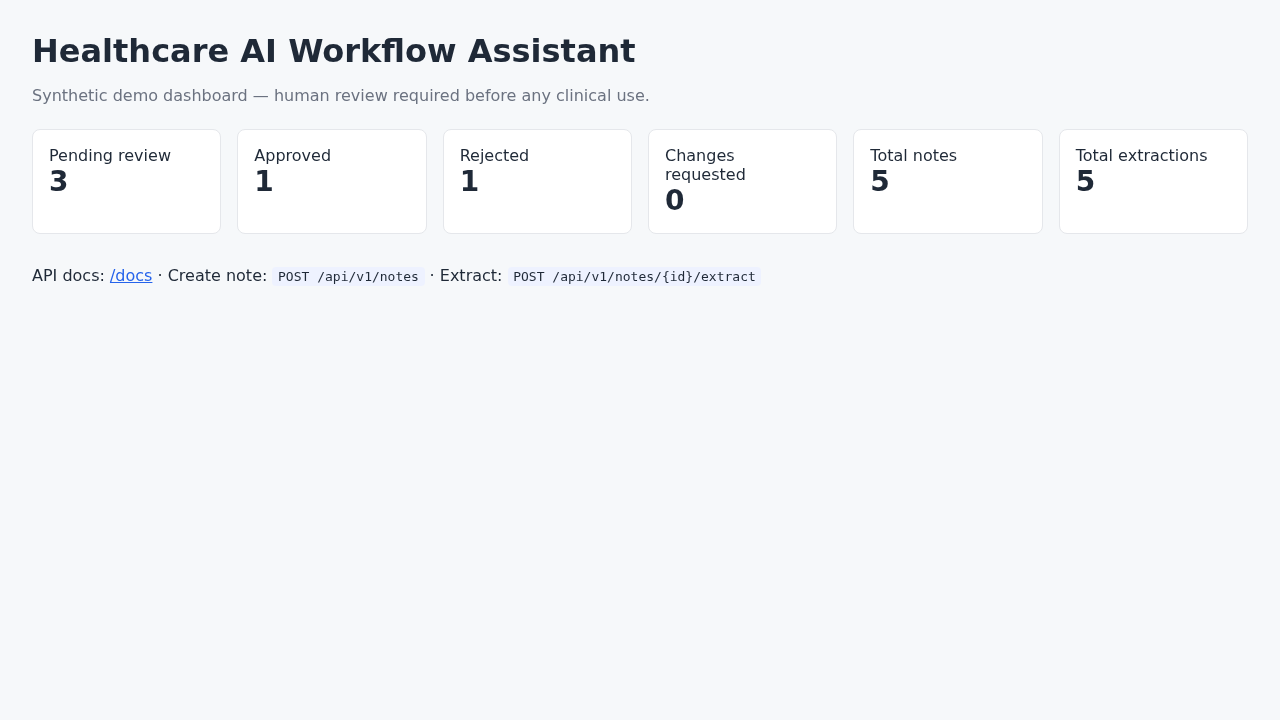
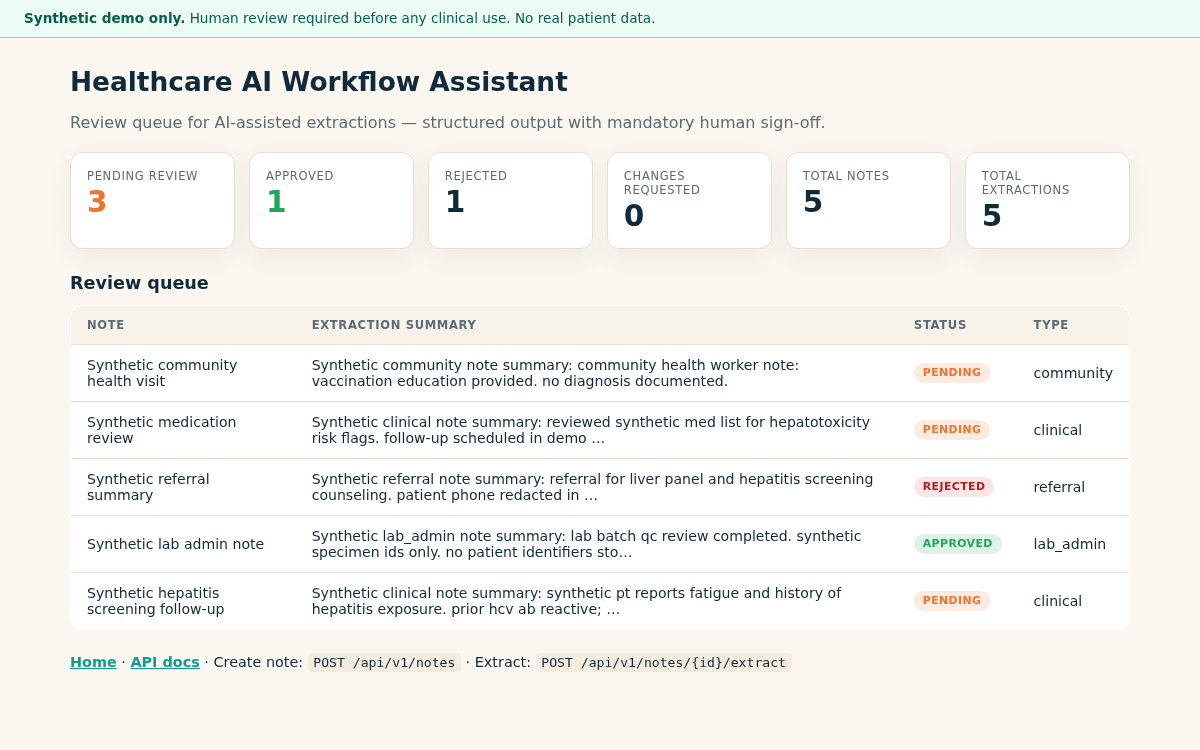
Add landing page, dashboard review queue, and demo polish for Render.
Warm landing UI, startup seed, reviews API, real dashboard screenshot, and live demo URLs in README.

diff --git a/backend/app/static/dashboard.html b/backend/app/static/dashboard.html
@@ -5,85 +5,101 @@
   <meta name="viewport" content="width=device-width, initial-scale=1.0" />
   <title>Healthcare AI Workflow Assistant — Demo Dashboard</title>
   <style>
-    body { font-family: system-ui, sans-serif; margin: 2rem; background: #f6f8fa; color: #1f2937; }
-    h1 { margin-bottom: 0.25rem; }
-    .muted { color: #6b7280; margin-bottom: 1.5rem; }
-    .cards { display: grid; grid-template-columns: repeat(auto-fit, minmax(140px, 1fr)); gap: 1rem; margin-bottom: 2rem; }
-    .card { background: #fff; border: 1px solid #e5e7eb; border-radius: 8px; padding: 1rem; }
-    .card strong { display: block; font-size: 1.5rem; }
-    table { width: 100%; border-collapse: collapse; background: #fff; border: 1px solid #e5e7eb; border-radius: 8px; overflow: hidden; }
-    th, td { text-align: left; padding: 0.75rem 1rem; border-bottom: 1px solid #e5e7eb; font-size: 0.9rem; }
-    th { background: #f9fafb; font-weight: 600; }
-    .badge { display: inline-block; padding: 0.15rem 0.5rem; border-radius: 999px; font-size: 0.75rem; font-weight: 600; }
-    .pending { background: #fef3c7; color: #92400e; }
-    .approved { background: #d1fae5; color: #065f46; }
-    .rejected { background: #fee2e2; color: #991b1b; }
-    .changes { background: #e0e7ff; color: #3730a3; }
-    .none { background: #f3f4f6; color: #6b7280; }
-    a { color: #2563eb; }
-    code { background: #eef2ff; padding: 0.1rem 0.35rem; border-radius: 4px; }
+    :root {
+      --bg: #FBF7F0;
+      --surface: #fff;
+      --ink: #0E2A3B;
+      --muted: #5B6B73;
+      --teal: #0E9E8E;
+      --green: #1FA85B;
+      --orange: #F2742C;
+      --border: #E8DFD0;
+    }
+    * { box-sizing: border-box; }
+    body { font-family: system-ui, sans-serif; margin: 0; background: var(--bg); color: var(--ink); }
+    .banner { background: #ecfdf5; border-bottom: 1px solid #6ee7b7; color: #065f46; padding: 0.65rem 1.5rem; font-size: 0.85rem; }
+    main { max-width: 1100px; margin: 0 auto; padding: 1.75rem 1.25rem 2.5rem; }
+    h1 { margin: 0 0 0.25rem; font-size: 1.65rem; }
+    .muted { color: var(--muted); margin-bottom: 1.25rem; }
+    .cards { display: grid; grid-template-columns: repeat(auto-fit, minmax(140px, 1fr)); gap: 0.85rem; margin-bottom: 1.5rem; }
+    .card { background: var(--surface); border: 1px solid var(--border); border-radius: 12px; padding: 1rem; box-shadow: 0 8px 24px rgba(14,42,59,0.06); }
+    .card span { display: block; font-size: 0.72rem; text-transform: uppercase; letter-spacing: 0.06em; color: var(--muted); margin-bottom: 0.35rem; }
+    .card strong { font-size: 1.85rem; line-height: 1; }
+    .card.pending strong { color: var(--orange); }
+    .card.approved strong { color: var(--green); }
+    table { width: 100%; border-collapse: collapse; background: var(--surface); border: 1px solid var(--border); border-radius: 12px; overflow: hidden; }
+    th, td { padding: 0.75rem 1rem; border-bottom: 1px solid var(--border); text-align: left; font-size: 0.88rem; }
+    th { background: #F8F3EA; font-size: 0.72rem; text-transform: uppercase; letter-spacing: 0.06em; color: var(--muted); }
+    tr:last-child td { border-bottom: none; }
+    .pill { display: inline-block; padding: 0.2rem 0.55rem; border-radius: 999px; font-size: 0.68rem; font-weight: 600; text-transform: uppercase; letter-spacing: 0.04em; }
+    .pill-pending { background: rgba(242,116,44,0.15); color: var(--orange); }
+    .pill-approved { background: rgba(31,168,91,0.15); color: var(--green); }
+    .pill-rejected { background: rgba(220,38,38,0.12); color: #b91c1c; }
+    .pill-changes { background: rgba(14,158,142,0.12); color: var(--teal); }
+    .nav { margin-top: 1.5rem; font-size: 0.9rem; }
+    a { color: var(--teal); font-weight: 600; }
+    code { background: #F4ECDE; padding: 0.1rem 0.35rem; border-radius: 4px; font-size: 0.82rem; }
   </style>
 </head>
 <body>
-  <h1>Healthcare AI Workflow Assistant</h1>
-  <p class="muted">Portfolio demo — synthetic clinical notes only. Human review required before any clinical use.</p>
-  <div class="cards" id="summary">Loading summary...</div>
-  <h2>Recent notes</h2>
-  <table>
-    <thead>
-      <tr><th>Title</th><th>Type</th><th>Review status</th><th>Created</th></tr>
-    </thead>
-    <tbody id="notes"><tr><td colspan="4">Loading notes...</td></tr></tbody>
-  </table>
-  <p style="margin-top: 2rem;">
-    <a href="/docs">API documentation</a> ·
-  <code>POST /api/v1/notes</code> ·
-  <code>POST /api/v1/notes/{id}/extract</code> ·
-  <code>POST /api/v1/extractions/{id}/review</code>
-  </p>
+  <div class="banner"><strong>Synthetic demo only.</strong> Human review required before any clinical use. No real patient data.</div>
+  <main>
+    <h1>Healthcare AI Workflow Assistant</h1>
+    <p class="muted">Review queue for AI-assisted extractions — structured output with mandatory human sign-off.</p>
+    <div class="cards" id="summary">Loading summary...</div>
+    <h2 style="font-size:1.1rem;margin:0 0 0.75rem;">Review queue</h2>
+    <table>
+      <thead><tr><th>Note</th><th>Extraction summary</th><th>Status</th><th>Type</th></tr></thead>
+      <tbody id="reviews"><tr><td colspan="4">Loading reviews...</td></tr></tbody>
+    </table>
+    <p class="nav">
+      <a href="/">Home</a> ·
+      <a href="/docs">API docs</a> ·
+      Create note: <code>POST /api/v1/notes</code> ·
+      Extract: <code>POST /api/v1/notes/{id}/extract</code>
+    </p>
+  </main>
   <script>
-    function badgeClass(status) {
-      if (!status) return 'none';
-      if (status === 'pending') return 'pending';
-      if (status === 'approved') return 'approved';
-      if (status === 'rejected') return 'rejected';
-      return 'changes';
-    }
+    const pillClass = (s) => {
+      const k = (s || '').toLowerCase();
+      if (k === 'approved') return 'pill-approved';
+      if (k === 'rejected') return 'pill-rejected';
+      if (k === 'changes_requested') return 'pill-changes';
+      return 'pill-pending';
+    };
     fetch('/api/v1/dashboard/summary')
       .then(r => r.json())
       .then(data => {
         const fields = [
-          ['Pending', data.pending_review],
-          ['Approved', data.approved],
-          ['Rejected', data.rejected],
-          ['Changes', data.changes_requested],
-          ['Notes', data.total_notes],
+          ['Pending review', data.pending_review, 'pending'],
+          ['Approved', data.approved, 'approved'],
+          ['Rejected', data.rejected, ''],
+          ['Changes requested', data.changes_requested, ''],
+          ['Total notes', data.total_notes, ''],
+          ['Total extractions', data.total_extractions, ''],
         ];
-        document.getElementById('summary').innerHTML = fields.map(([label, value]) =>
-          `<div class="card"><span>${label}</span><strong>${value}</strong></div>`
+        document.getElementById('summary').innerHTML = fields.map(([label, value, cls]) =>
+          `<div class="card ${cls}"><span>${label}</span><strong>${value}</strong></div>`
         ).join('');
       });
-    fetch('/api/v1/notes')
+    fetch('/api/v1/dashboard/reviews')
       .then(r => r.json())
-      .then(notes => {
-        if (!notes.length) {
-          document.getElementById('notes').innerHTML = '<tr><td colspan="4">No notes yet.</td></tr>';
+      .then(rows => {
+        if (!rows.length) {
+          document.getElementById('reviews').innerHTML = '<tr><td colspan="4">No extractions yet. Run the seed script or create a note.</td></tr>';
           return;
         }
-        document.getElementById('notes').innerHTML = notes.map(item => {
-          const status = item.latest_extraction ? item.latest_extraction.review_status : null;
-          const label = status || 'no extraction';
-          const created = new Date(item.note.created_at).toLocaleString();
-          return `<tr>
-            <td>${item.note.title}</td>
-            <td>${item.note.note_type}</td>
-            <td><span class="badge ${badgeClass(status)}">${label}</span></td>
-            <td>${created}</td>
-          </tr>`;
-        }).join('');
+        document.getElementById('reviews').innerHTML = rows.map(row =>
+          `<tr>
+            <td>${row.note_title}</td>
+            <td>${row.summary}</td>
+            <td><span class="pill ${pillClass(row.review_status)}">${row.review_status.replace('_', ' ')}</span></td>
+            <td>${row.note_type}</td>
+          </tr>`
+        ).join('');
       })
       .catch(() => {
-        document.getElementById('notes').innerHTML = '<tr><td colspan="4">Could not load notes.</td></tr>';
+        document.getElementById('reviews').innerHTML = '<tr><td colspan="4">Could not load review queue.</td></tr>';
       });
   </script>
 </body>

diff --git a/backend/app/landing.py b/backend/app/landing.py
@@ -1,0 +1,36 @@
+"""HTML landing page for portfolio API demos."""
+
+GITHUB = "dawit-Tegegnwork"
+
+
+def render_landing(
+    title: str,
+    tagline: str,
+    synthetic_notice: str,
+    repo_slug: str,
+    *,
+    health_path: str = "/health",
+    docs_path: str = "/docs",
+    extra_links: list[tuple[str, str]] | None = None,
+    quick_steps: list[str] | None = None,
+) -> str:
+    extra = "".join(f'<a href="{href}">{label}</a>' for href, label in (extra_links or []))
+    steps = "".join(f"<li>{s}</li>" for s in (quick_steps or []))
+    return f"""<!DOCTYPE html>
+<html lang="en"><head><meta charset="utf-8"/><meta name="viewport" content="width=device-width,initial-scale=1"/>
+<title>{title}</title>
+<style>
+body{{margin:0;font-family:system-ui,sans-serif;background:#FBF7F0;color:#0E2A3B;line-height:1.6}}
+main{{max-width:820px;margin:0 auto;padding:2.5rem 1.25rem}}
+.notice{{background:#ecfdf5;border:1px solid #6ee7b7;color:#065f46;padding:1rem;border-radius:8px;margin:1rem 0}}
+.links a{{display:inline-block;margin:.35rem .75rem .35rem 0;color:#0E9E8E;font-weight:600}}
+ol{{padding-left:1.25rem}} code{{background:#F4ECDE;padding:.1rem .35rem;border-radius:4px}}
+</style></head><body><main>
+<h1>{title}</h1><p>{tagline}</p>
+<div class="notice"><strong>Synthetic data only.</strong> {synthetic_notice}</div>
+<div class="links">
+<a href="{docs_path}">API docs</a><a href="{health_path}">Health check</a>{extra}
+<a href="https://github.com/{GITHUB}/{repo_slug}">GitHub</a>
+</div>
+<h2>Quick test (3 minutes)</h2><ol>{steps}</ol>
+</main></body></html>"""

diff --git a/backend/app/main.py b/backend/app/main.py
@@ -8,13 +8,13 @@ from app.api.routes import router
 from app.api.workflow import router as workflow_router
 from app.core.config import settings
 from app.db.session import init_db
+from app.landing import render_landing
+from app.scripts.seed import seed
 
 
 @asynccontextmanager
 async def lifespan(app: FastAPI):
     init_db()
-    from app.scripts.seed import seed
-
     seed(force=False)
     yield
 
@@ -37,9 +37,20 @@ def create_app() -> FastAPI:
         return {"status": "ok", "service": settings.service_name}
 
     @app.get("/", response_class=HTMLResponse)
-    def landing() -> str:
-        template_path = Path(__file__).parent / "static" / "landing.html"
-        return template_path.read_text(encoding="utf-8")
+    def landing_page() -> str:
+        return render_landing(
+            "Healthcare AI Workflow Assistant",
+            "Production-style portfolio API — structured AI extraction, human review, audit logging.",
+            "Not for real patient data or clinical decision-making. Demo notes only.",
+            "healthcare-ai-workflow-assistant",
+            extra_links=[("/dashboard", "Review dashboard")],
+            quick_steps=[
+                'Check <a href="/health">/health</a>',
+                'Open <a href="/dashboard">/dashboard</a> — seeded review queue',
+                'Create a note via <code>POST /api/v1/notes</code> in <a href="/docs">/docs</a>',
+                "Run extraction then review with <code>POST /api/v1/extractions/{id}/review</code>",
+            ],
+        )
 
     @app.get("/dashboard", response_class=HTMLResponse)
     def dashboard() -> str:

diff --git a/backend/app/api/workflow.py b/backend/app/api/workflow.py
@@ -13,6 +13,7 @@ from app.db.session import get_session
 from app.models.schemas import (
     AuditEvent,
     AuditEventResponse,
+    DashboardReviewRow,
     DashboardSummary,
     ExtractionResponse,
     NoteCreateInput,
@@ -216,6 +217,25 @@ def dashboard_summary(session: Session = Depends(get_session)) -> DashboardSumma
         total_notes=total_notes,
         total_extractions=total_extractions,
     )
+
+
[email redacted]("/dashboard/reviews", response_model=list[DashboardReviewRow])
+def dashboard_reviews(session: Session = Depends(get_session)) -> list[DashboardReviewRow]:
+    rows = session.exec(
+        select(Extraction, ClinicalNote)
+        .join(ClinicalNote, ClinicalNote.id == Extraction.note_id)
+        .order_by(Extraction.created_at.desc())
+        .limit(20)
+    ).all()
+    return [
+        DashboardReviewRow(
+            note_title=note.title,
+            summary=extraction.summary[:120] + ("…" if len(extraction.summary) > 120 else ""),
+            review_status=extraction.review_status.value,
+            note_type=note.note_type,
+        )
+        for extraction, note in rows
+    ]
 
 
 @router.get("/audit", response_model=list[AuditEventResponse])

diff --git a/backend/app/models/schemas.py b/backend/app/models/schemas.py
@@ -112,6 +112,13 @@ class DashboardSummary(BaseModel):
     total_extractions: int
 
 
+class DashboardReviewRow(BaseModel):
+    note_title: str
+    summary: str
+    review_status: str
+    note_type: str
+
+
 class AuditEventResponse(BaseModel):
     id: UUID
     action: str

diff --git a/docs/RENDER_DEPLOY.md b/docs/RENDER_DEPLOY.md
@@ -6,8 +6,8 @@
 
 1. Click **Deploy to Render** above (or import this repo in the [Render dashboard](https://dashboard.render.com/)).
 2. Render reads [`render.yaml`](render.yaml) and builds the Docker image.
-3. After deploy, open `https://<your-service>.onrender.com/docs` for Swagger UI.
-4. Seed demo data (optional — run locally against the service or use API to create notes):
+3. After deploy, open `https://healthcare-ai-workflow-assistant.onrender.com/dashboard` for the demo UI.
+4. Open `https://healthcare-ai-workflow-assistant.onrender.com/docs` for Swagger UI.
 
 ```bash
 curl -X POST https://<your-service>.onrender.com/api/v1/notes \
@@ -31,7 +31,7 @@ curl -X POST https://<your-service>.onrender.com/api/v1/notes \
 ## Health check
 
 ```bash
-curl https://<your-service>.onrender.com/health
+curl https://healthcare-ai-workflow-assistant.onrender.com/health
 ```
 
 Expected: `{"status":"ok","service":"Healthcare AI Workflow Assistant"}`

diff --git a/README.md b/README.md
@@ -169,7 +169,8 @@ Portfolio demo only. Not a medical device. Does not diagnose or treat. Use synth
 
 | | |
 |---|---|
-| **Live demo** | Deploy via [Render](docs/RENDER_DEPLOY.md) (free tier) or run locally below |
+| **Live demo** | https://healthcare-ai-workflow-assistant.onrender.com/dashboard (free tier — first request may take ~30s after idle) |
+| **API docs** | https://healthcare-ai-workflow-assistant.onrender.com/docs |
 | **Local** | `docker compose up --build` then seed demo data |
 
 See [docs/RENDER_DEPLOY.md](docs/RENDER_DEPLOY.md) for one-click cloud deployment.